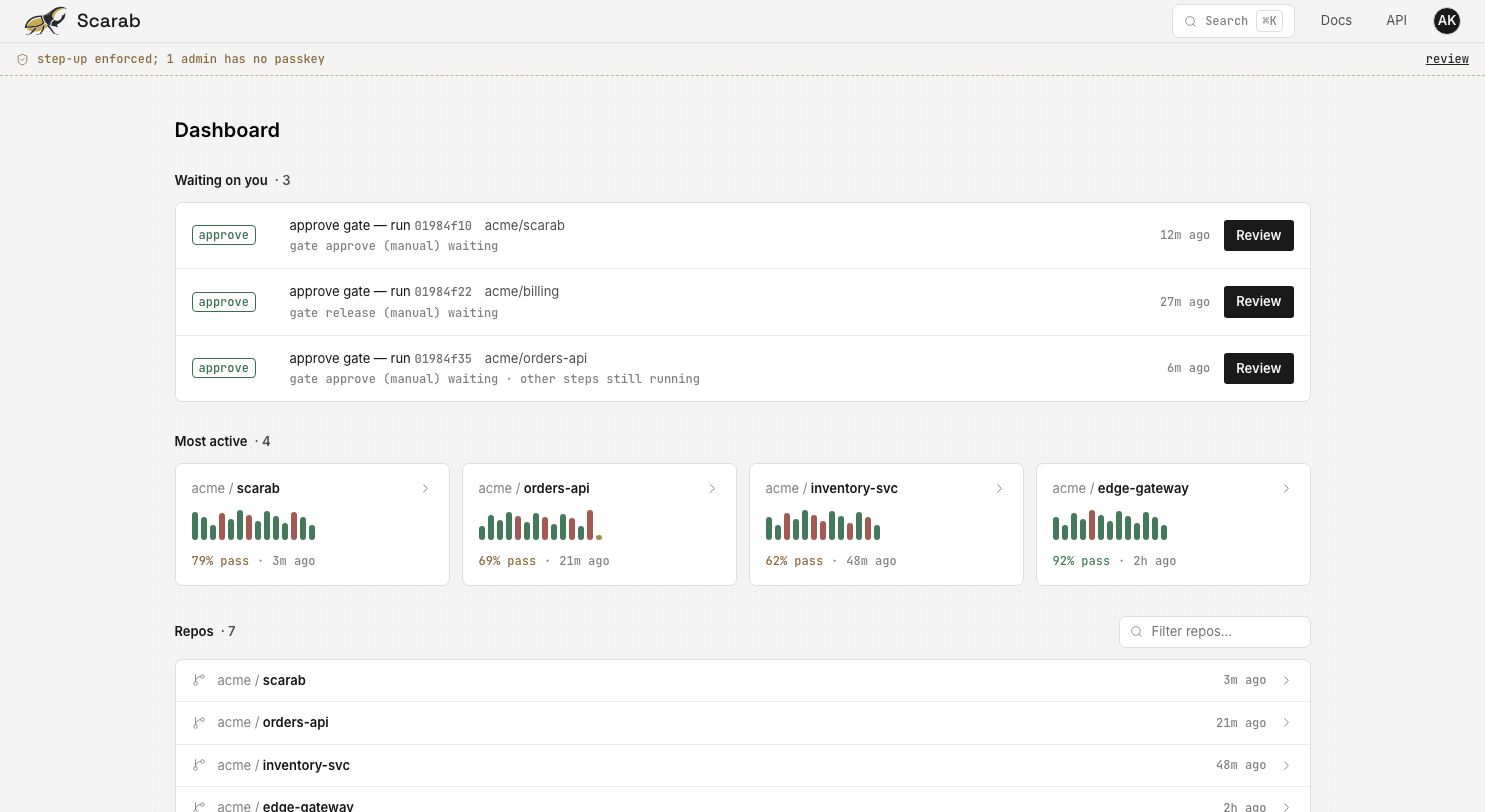
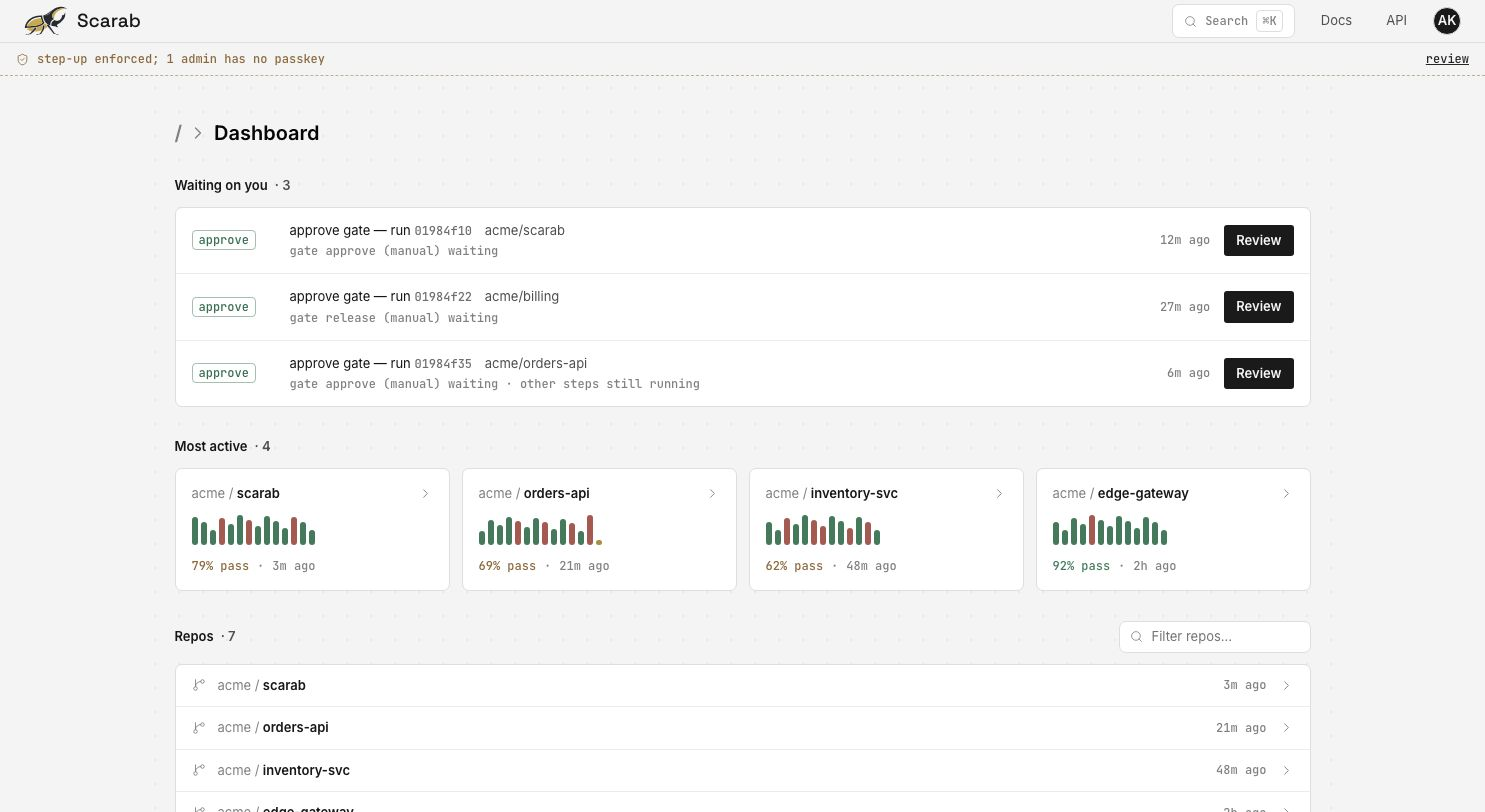
fix(ui): Dashboard heading is a breadcrumb, with one gap under it
The Dashboard title was a plain h1 on a 21px line, so it sat a few
pixels off from the breadcrumb headings every other page has (26px).
When nothing waited on a gate, the "All clear" card sat 8px under it:
the 30px gap the inbox label got came from `.dash-label:first-of-type`,
which never matched (the page head is the first div), so the label
fell back to its own 30px and the card had only its 8px.

The heading is now `/ › Dashboard` in the shared crumb heading, and the
first block under it (inbox, all-clear card, loading line or error)
starts 30px below it in every state. The dead `:first-of-type` rule is
gone. Dashboard screenshot recaptured.

diff --git a/ui/scarab-web-ui/src/styles.css b/ui/scarab-web-ui/src/styles.css
@@ -2052,7 +2052,6 @@ input:focus-visible, textarea:focus-visible, select:focus-visible {
   font: var(--t-label);
   color: var(--soft-white); margin: 30px 0 11px;
 }
-.dash-label:first-of-type { margin-top: 8px; }
 .dash-label .count { color: var(--sage); }
 
 /* Representative/prototype tag — a dashed gold edge, never a fill (§edges). */
@@ -2086,11 +2085,15 @@ input:focus-visible, textarea:focus-visible, select:focus-visible {
 
 /* ---- all-clear (calm state) ---- */
 .allclear {
-  display: flex; align-items: center; gap: 15px; margin-top: 8px;
+  display: flex; align-items: center; gap: 15px;
   padding: 20px 22px; border: 1px solid var(--border); border-radius: var(--radius-lg);
   background: var(--emerald-surface);
 }
 .allclear .ac-ico { color: var(--ok-ink); flex: none; }
+/* The dashboard has no toolbar row under its heading, so whatever comes first
+   (the inbox, the all-clear card, the loading line or an error) starts one
+   section gap below it, the same in every state. */
+.page-head.dash-head + * { margin-top: 30px; }
 
 /* State-moment beetle: an idle/failed pose stands in for an empty list.
    The caption sits DIRECTLY under the art — it reads as the beetle's own line,

diff --git a/ui/scarab-web-ui/src/routes/Repos.tsx b/ui/scarab-web-ui/src/routes/Repos.tsx
@@ -24,6 +24,7 @@ import RunBars from "../components/RunBars";
 import AsciiScene from "../components/AsciiScene";
 import dungroller from "../../../brand/ascii/generated/dungroller-bare.json";
 import Pill from "../components/Pill";
+import { HomeCrumb } from "../components/PageCrumbs";
 
 const runHref = (r: RunSummary) => `/${r.org ?? "api"}/${r.project ?? "unknown"}/runs/${r.id}`;
 const tenant = (r: RunSummary) => (r.org && r.project ? `${r.org}/${r.project}` : null);
@@ -149,8 +150,11 @@ export default function Repos() {
   return (
     <>
       <section class="page">
-        <div class="page-head">
-          <h1>Dashboard</h1>
+        <div class="page-head dash-head">
+          <h1 class="crumb-head">
+            <HomeCrumb size={20} sepClass="crumb-head-sep" />
+            <span>Dashboard</span>
+          </h1>
         </div>
 
         <Show when={runs.error || projects.error}>
